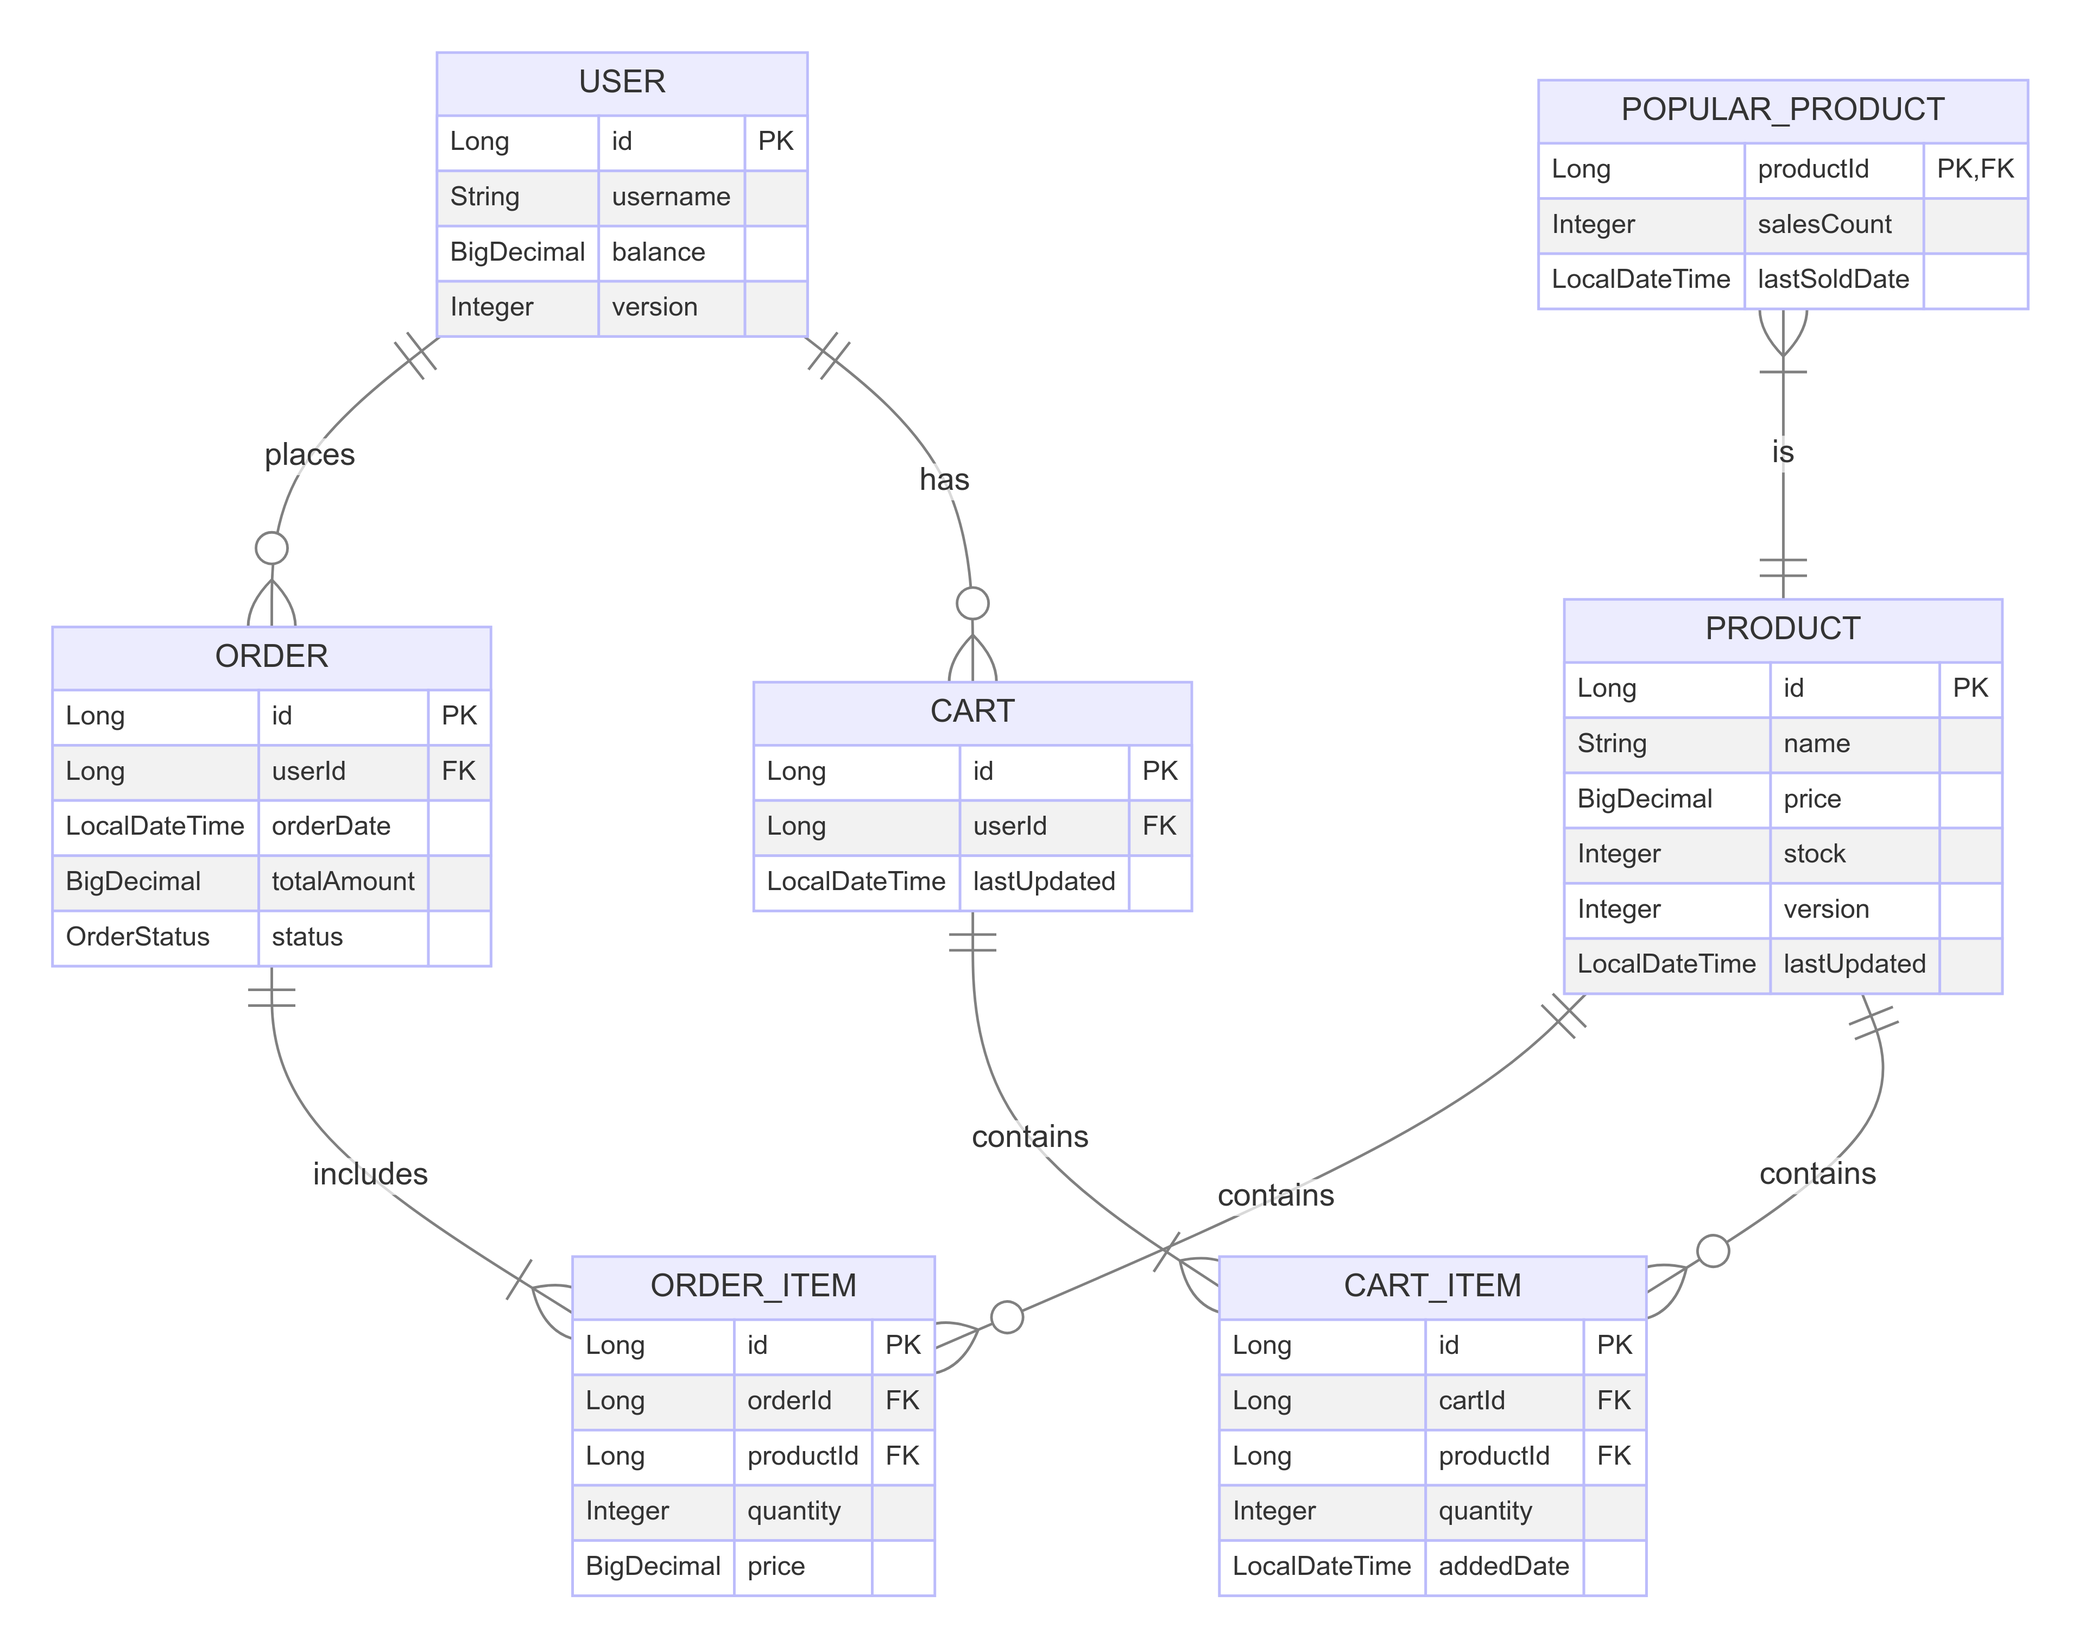
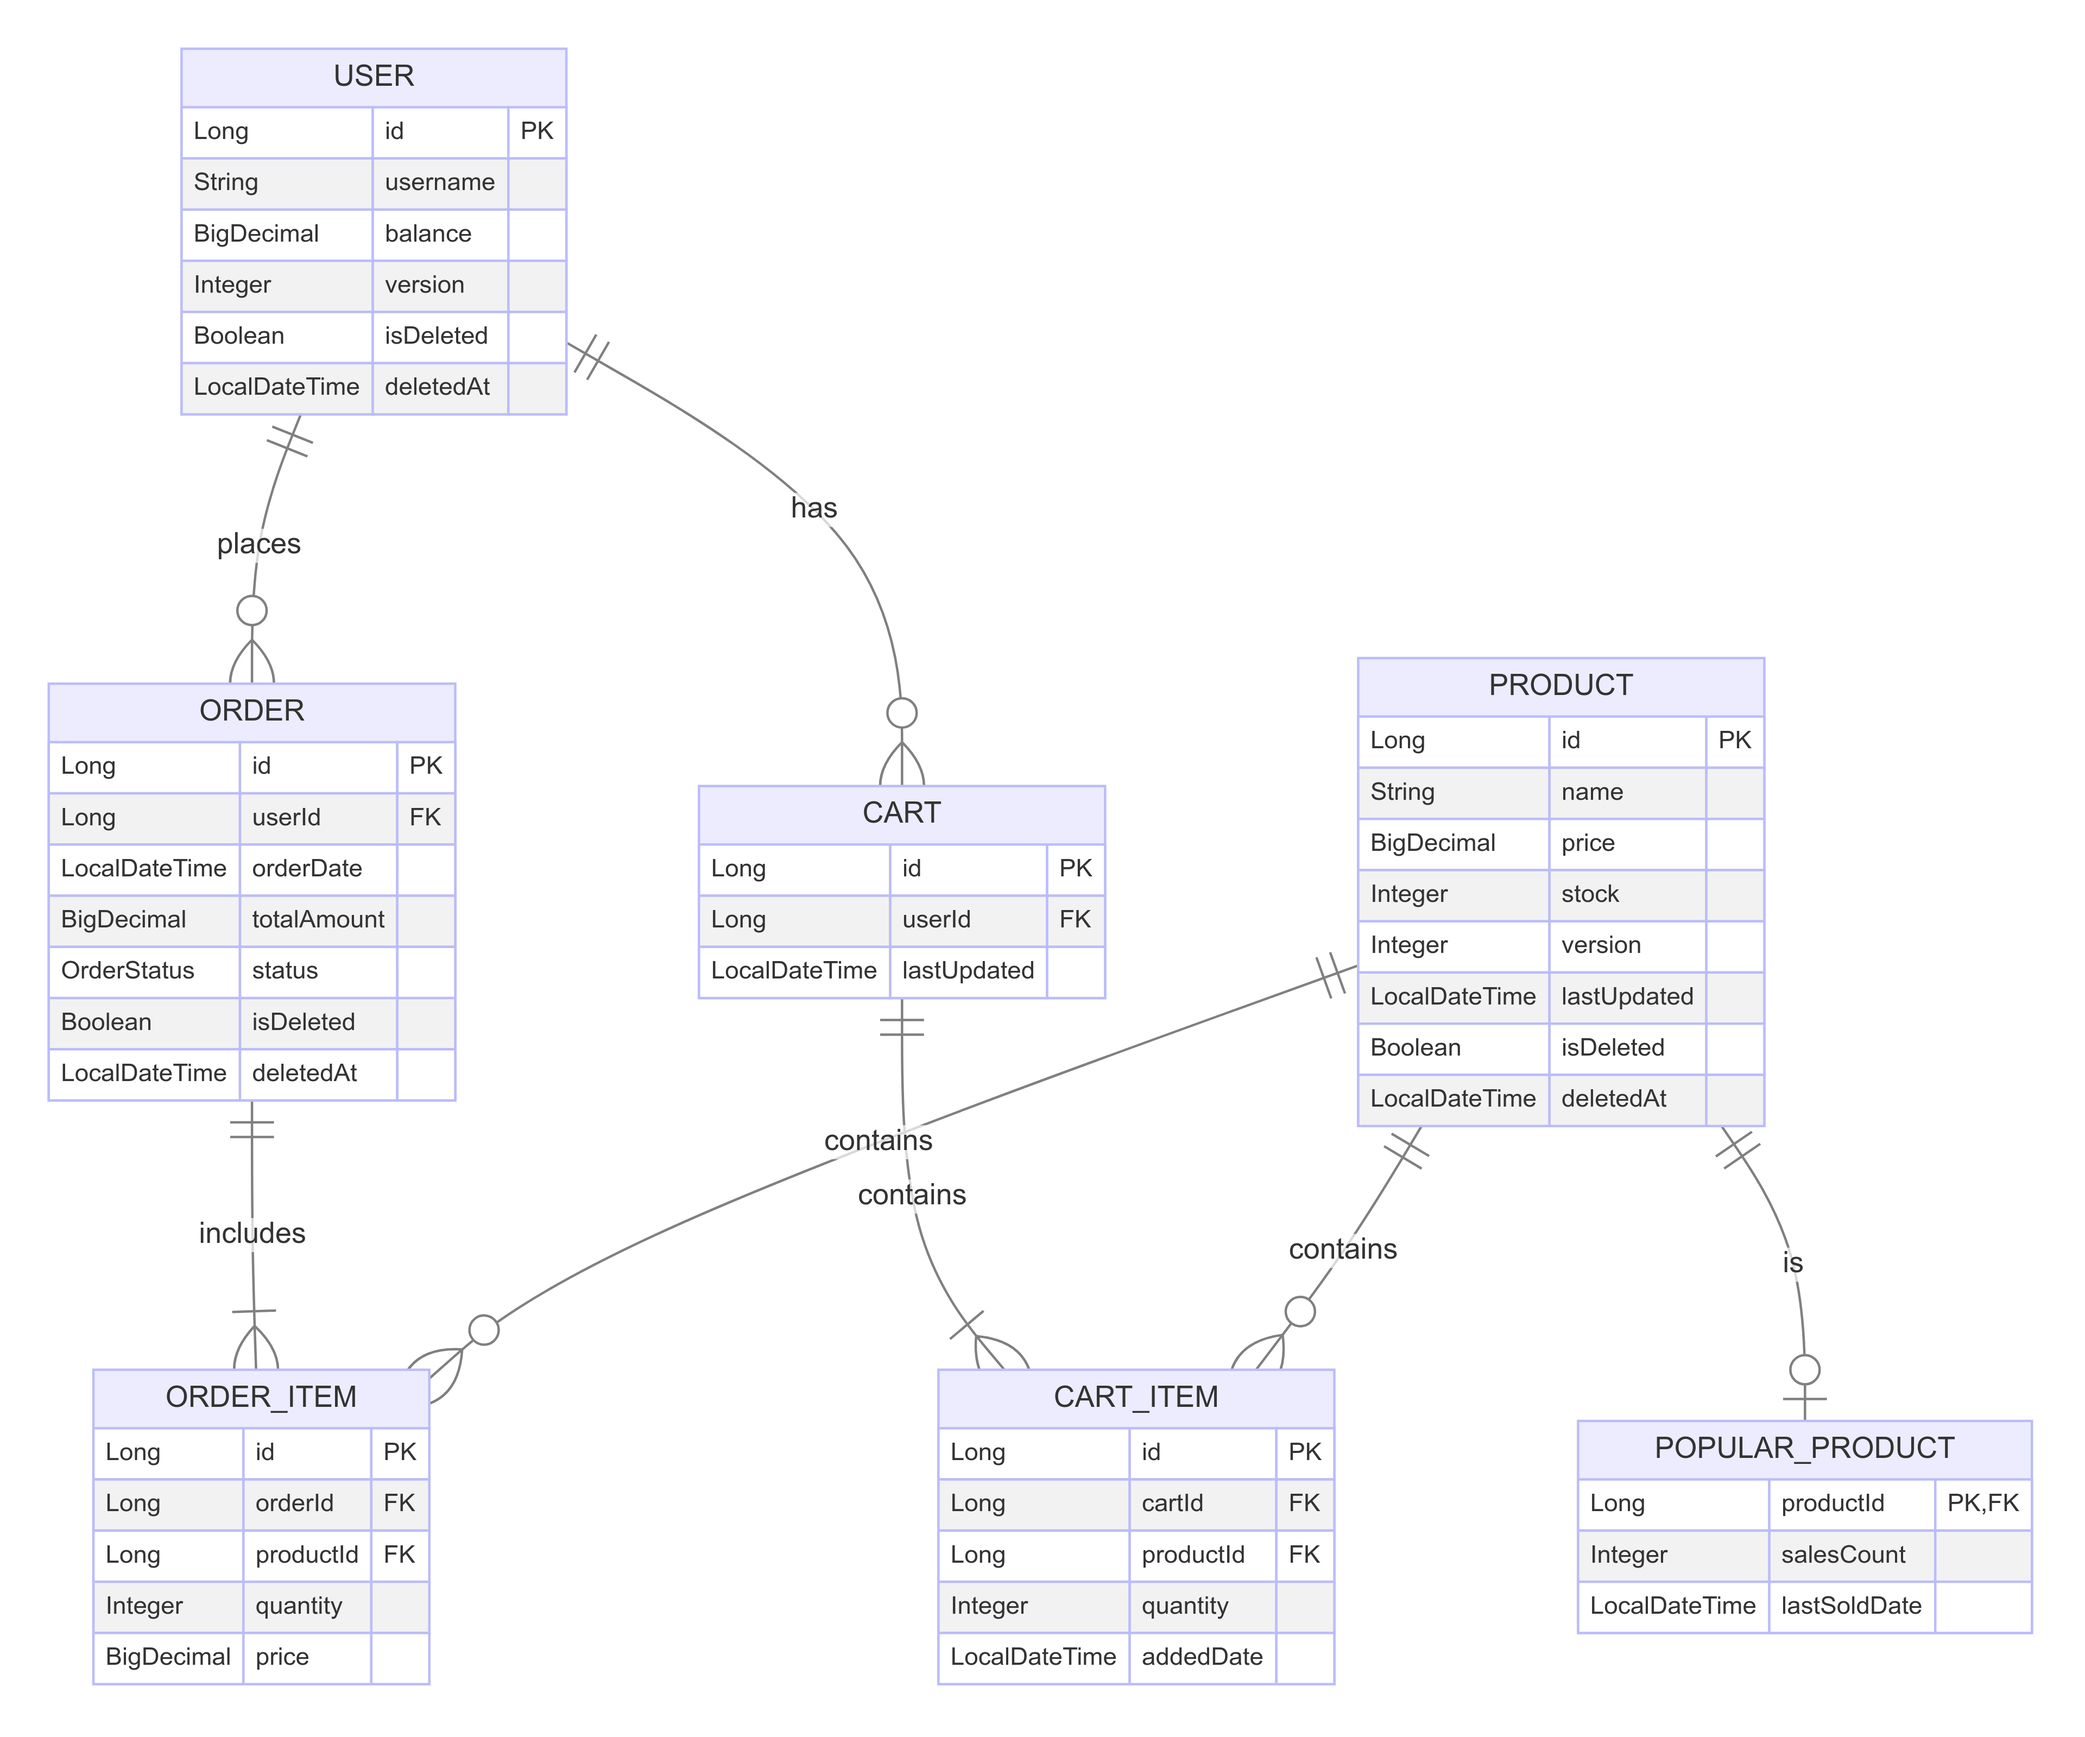
api 명세서 추가 및 ERD Soft delete 적용

diff --git a/docs/api_specification.md b/docs/api_specification.md
@@ -1,0 +1,264 @@
+# E-커머스 API 명세
+
+## 1. 개요
+
+상품 조회, 주문, 결제, 잔액 관리, 인기 상품 추천 기능에 대한 API 명세입니다.
+
+### 1.1 기본 URL
+```
+https://api.ecommerce-example.com
+```
+
+### 1.2 인증
+모든 API 요청에는 Authorization 헤더에 Bearer 토큰이 필요합니다.
+
+### 1.3 공통 응답 형식
+```json
+{
+  "success": boolean,
+  "message": string,
+  "data": object
+}
+```
+
+### 1.4 공통 에러 코드
+- 400: 잘못된 요청
+- 401: 인증 실패
+- 403: 권한 없음
+- 404: 리소스 없음
+- 500: 서버 내부 오류
+
+## 2. API 엔드포인트
+
+### 2.1 잔액 관리
+
+#### 2.1.1 잔액 충전
+
+- **Endpoint**: POST /balance/charge
+- **Authorization**: Bearer Token 필요
+- **Request Body**:
+  ```json
+  {
+    "userId": long,
+    "amount": bigdecimal
+  }
+  ```
+- **Response**:
+    - Status Code: 200 OK
+    - Body:
+      ```json
+      {
+        "success": true,
+        "message": "잔액이 충전되었습니다.",
+        "data": {
+          "userId": long,
+          "newBalance": bigdecimal,
+          "chargedAmount": bigdecimal,
+          "chargeDate": datetime
+        }
+      }
+      ```
+- **Error**:
+    - 400 Bad Request: 충전 금액이 유효하지 않은 경우
+      ```json
+      {
+        "success": false,
+        "message": "충전 금액은 1,000원 이상 1,000,000원 이하여야 합니다.",
+        "errorCode": "INVALID_CHARGE_AMOUNT"
+      }
+      ```
+    - 401 Unauthorized: 인증 실패
+    - 500 Internal Server Error: 서버 오류
+
+#### 2.1.2 잔액 조회
+
+- **Endpoint**: GET /balance/{userId}
+- **Authorization**: Bearer Token 필요
+- **Path Parameters**:
+    - userId: long
+- **Response**:
+    - Status Code: 200 OK
+    - Body:
+      ```json
+      {
+        "success": true,
+        "message": "잔액 조회 성공",
+        "data": {
+          "userId": long,
+          "balance": bigdecimal,
+          "lastUpdated": datetime
+        }
+      }
+      ```
+- **Error**:
+    - 401 Unauthorized: 인증 실패
+    - 404 Not Found: 사용자를 찾을 수 없음
+    - 500 Internal Server Error: 서버 오류
+
+### 2.2 인기 상품 조회
+
+#### 2.2.1 인기 상품 목록 조회
+
+- **Endpoint**: GET /products/popular
+- **Authorization**: Bearer Token 필요
+- **Response**:
+    - Status Code: 200 OK
+    - Body:
+      ```json
+      {
+        "success": true,
+        "message": "인기 상품 조회 성공",
+        "data": {
+          "popularProducts": [
+            {
+              "id": long,
+              "name": string,
+              "price": bigdecimal,
+              "salesCount": int
+            }
+          ],
+          "lastUpdated": datetime
+        }
+      }
+      ```
+- **Error**:
+    - 401 Unauthorized: 인증 실패
+    - 500 Internal Server Error: 서버 오류
+
+### 2.3 장바구니 관리
+
+#### 2.3.1 장바구니에 상품 추가
+
+- **Endpoint**: POST /cart/items
+- **Authorization**: Bearer Token 필요
+- **Request Body**:
+  ```json
+  {
+    "userId": long,
+    "productId": long,
+    "quantity": int
+  }
+  ```
+- **Response**:
+    - Status Code: 200 OK
+    - Body:
+      ```json
+      {
+        "success": true,
+        "message": "상품이 장바구니에 추가되었습니다.",
+        "data": {
+          "cartId": long,
+          "totalItems": int,
+          "addedProduct": {
+            "productId": long,
+            "name": string,
+            "price": bigdecimal,
+            "quantity": int
+          }
+        }
+      }
+      ```
+- **Error**:
+    - 400 Bad Request: 상품 수량이 유효하지 않은 경우
+      ```json
+      {
+        "success": false,
+        "message": "상품 수량은 1개 이상 10개 이하여야 합니다.",
+        "errorCode": "INVALID_PRODUCT_QUANTITY"
+      }
+      ```
+    - 401 Unauthorized: 인증 실패
+    - 404 Not Found: 상품을 찾을 수 없음
+    - 500 Internal Server Error: 서버 오류
+
+#### 2.3.2 장바구니에서 상품 삭제
+
+- **Endpoint**: DELETE /cart/items/{productId}
+- **Authorization**: Bearer Token 필요
+- **Path Parameters**:
+    - productId: long
+- **Query Parameters**:
+    - userId: long
+- **Response**:
+    - Status Code: 200 OK
+    - Body:
+      ```json
+      {
+        "success": true,
+        "message": "상품이 장바구니에서 삭제되었습니다.",
+        "data": {
+          "cartId": long,
+          "totalItems": int
+        }
+      }
+      ```
+- **Error**:
+    - 401 Unauthorized: 인증 실패
+    - 404 Not Found: 상품을 찾을 수 없음
+    - 500 Internal Server Error: 서버 오류
+
+#### 2.3.3 장바구니 조회
+
+- **Endpoint**: GET /cart/{userId}
+- **Authorization**: Bearer Token 필요
+- **Path Parameters**:
+    - userId: long
+- **Response**:
+    - Status Code: 200 OK
+    - Body:
+      ```json
+      {
+        "success": true,
+        "message": "장바구니 조회 성공",
+        "data": {
+          "cartId": long,
+          "items": [
+            {
+              "productId": long,
+              "name": string,
+              "price": bigdecimal,
+              "quantity": int
+            }
+          ],
+          "totalAmount": bigdecimal,
+          "totalItems": int
+        }
+      }
+      ```
+- **Error**:
+    - 401 Unauthorized: 인증 실패
+    - 404 Not Found: 사용자를 찾을 수 없음
+    - 500 Internal Server Error: 서버 오류
+
+#### 2.3.4 장바구니 상품 수량 변경
+
+- **Endpoint**: PATCH /cart/items/{productId}
+- **Authorization**: Bearer Token 필요
+- **Path Parameters**:
+    - productId: long
+- **Request Body**:
+  ```json
+  {
+    "userId": long,
+    "quantity": int
+  }
+  ```
+- **Response**:
+    - Status Code: 200 OK
+    - Body:
+      ```json
+      {
+        "success": true,
+        "message": "상품 수량이 변경되었습니다.",
+        "data": {
+          "productId": long,
+          "newQuantity": int,
+          "totalAmount": bigdecimal
+        }
+      }
+      ```
+- **Error**:
+    - 400 Bad Request: 상품 수량이 유효하지 않은 경우
+    - 401 Unauthorized: 인증 실패
+    - 404 Not Found: 상품을 찾을 수 없음
+    - 500 Internal Server Error: 서버 오류
